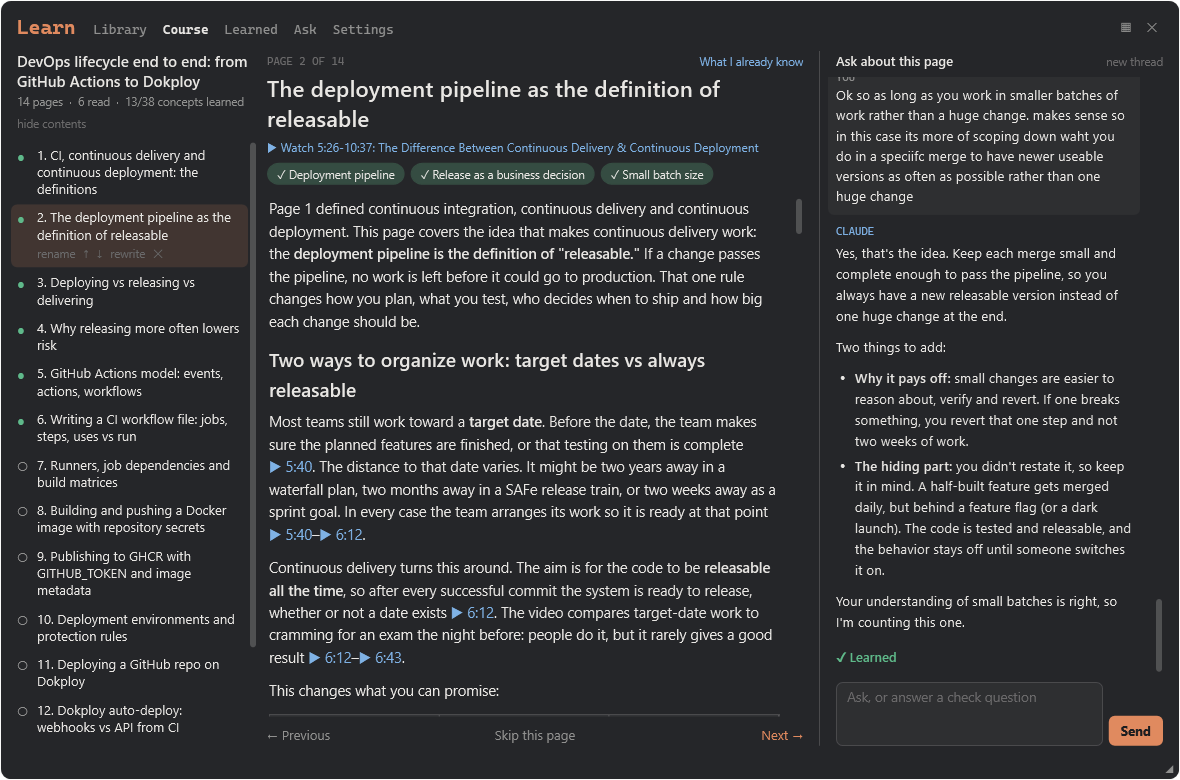
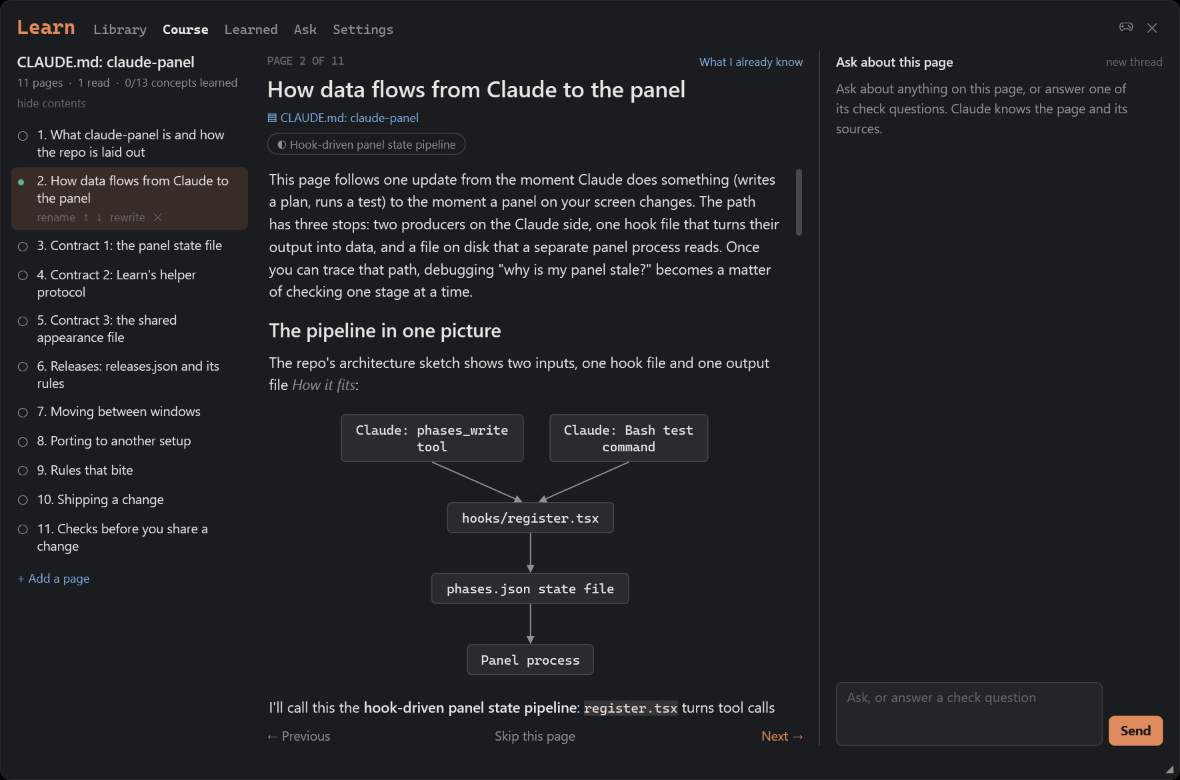
0.4.0: Learn's diagrams, Ask chats, and courses from documents and chats
Docs for the new helper commands, the diagram block and the doc and chat
sources (CLAUDE.md, PORTING.md, README), the releases entry, and fresh
Learn screenshots.

Claude-Session: https://claude.ai/code/session_018U5YekyU25cHqHPFQv33uL

diff --git a/CLAUDE.md b/CLAUDE.md
@@ -25,6 +25,9 @@ progress/
   widget/Learn.ps1 (+ LearnRender.ps1, LearnViews.ps1, LearnCore.cs)   the Learn window
   widget/{Sudoku,Game2048,TypeTest,ChessPuzzles}.ps1, ChessCore.cs, *.txt   the games and their data
   learn/*.mjs, learn/learn.sh     Learn's helper (Node 22, no dependencies): library, builds, chats, prompts
+                                  diagram.mjs (Mermaid subset -> laid-out diagram blocks), documents.mjs (PDF via pypdf,
+                                  .docx via its own zip reader, Markdown, HTML -> sections), chats.mjs (Claude Code chats
+                                  listed, found and shrunk to text, secrets masked)
   releases.json                   what each version brought: the Releases tab in every panel
   hooks/releases.ts, hooks/pages.ts   reading releases.json; the one TypeScript list of pages and windows
   tools/build-*.mjs               rebuild the chess puzzles / pieces from their public sources
@@ -102,8 +105,8 @@ Start it with `bash learn/learn.sh serve`, which finds Node 22 and `claude` even
 | pages | `page.get {courseId, n}` (also marks its concepts Seen), `page.rename {courseId, n, title}`, `page.move {courseId, n, delta}`, `page.remove {courseId, n}`, `page.skip {courseId, n, skip}`, `page.rewrite {courseId, n, note}`, `page.add {courseId, topic, after}`, `progress.set {courseId, n, scroll}` |
 | concepts | `concept.list`, `concept.learn {id, learned, courseId?, n?}`, `concept.add {text, category}`, `concept.update {id, name?, definition?, parent?}`, `concept.move {id, category}`, `concept.merge {keep, drop}`, `concept.remove {id}`, `concept.tidy`, `concept.prune` (concepts no course teaches) |
 | overlap | `overlap.get {courseId}`, `overlap.apply {courseId, skip}` |
-| chats | `chat.get {courseId, n \| advisor:true}`, `chat.send {…, text}` (answers `{key}`, then streams events), `chat.stop {key}`, `chat.clear {…}` |
-| builds | `build.start {topic \| link, category, mode: pick\|auto}`, `build.pick {jobId, picks}`, `build.resume {jobId}`, `build.cancel {jobId}`, `build.dismiss {jobId}`, `jobs.list` |
+| chats | `chat.get {courseId, n \| advisor:true, chatId}`, `chat.send {…, text}` (answers `{key}`, then streams events), `chat.stop {key}`, `chat.clear {…}`; Ask's chats: `advisor.list` → `[{id, title, createdAt, updatedAt, count}]`, `advisor.remove {chatId}` |
+| builds | `build.start {topic \| link \| file, name \| chat, focus; category, mode: pick\|auto}`, `build.pick {jobId, picks}`, `build.resume {jobId}`, `build.cancel {jobId}`, `build.dismiss {jobId}`, `jobs.list`, `claudeChats.list` → `[{id, title, project, cwd, at, size}]` |
 | tools | `deps.check`, `deps.install` (yt-dlp) |
 
 **Rules a front end must keep:**
@@ -111,8 +114,11 @@ Start it with `bash learn/learn.sh serve`, which finds Node 22 and `claude` even
 - A page's `n` is its permanent id. Its **order** is its position in `course.pages`; show "page X of Y" by position.
 - **Learned** is set only by the person's own action: a tick, or the *Mark learned* button. Never mark anything learned automatically.
 - A chat reply's `offers` (concept ids) become a *Mark learned* button, and its `builds` (`{topic, category}`) become *Build this* buttons.
+- **Ask's chats:** a window makes a new chat's id itself (`a` + letters and digits), so the streaming key `advisor:<id>` never changes mid-reply. A chat is saved, titled by its first question, when that question is sent. Before there were several, there was one `advisor/chat.json`; it becomes the first chat and is renamed `chat.json.moved`.
+- **Blocks:** a page's and a reply's blocks are `h p code ul ol quote hr table`, plus `diagram`. That is a ```mermaid block (`flowchart`/`graph` TD/LR/BT/RL, or `sequenceDiagram`) that `learn/diagram.mjs` laid out: `{w, h, font, line, small, smallLine, nodes:[{x, y, w, h, shape, lines}], edges:[{pts, dash, thick, head, tail, life, label?}], frames, source}`. It carries positions only; a front end draws it in its own colours, scaled by its text size over `font` and never wider than the column. One it can't read stays `code`, and a front end that doesn't know `diagram` skips it.
+- **Sources:** `youtube` and `web` come from research. `doc` is a document: the build keeps a copy, `courses/<id>/sources/<sid>.document.<ext>` (`page.source.file`). `chat` is a brief written from a Claude Code chat. Both have sections and are cited `[sec: Heading]` with no link. A web page's upload goes to `<config>/uploads/` (`POST /api/upload`), and `build.start` moves it in.
 
-The helper also works as a CLI (`learn.sh build start|list|run|pick|resume|cancel`, `settings`, `deps`, `library`, `status`, `transcript <url>`, `ping`).
+The helper also works as a CLI (`learn.sh build start|list|run|pick|resume|cancel`, `chats`, `extract <file>`, `settings`, `deps`, `library`, `status`, `transcript <url>`, `ping`). `/course <what>` in a chat runs `learn.sh build start --chat <session> --focus <what>` (`courseArgv` in `hooks/learn.ts`).
 
 **Every Claude call Learn makes** runs:
 
@@ -124,6 +130,8 @@ claude -p --safe-mode --restricted --strict-mcp-config --permission-mode dontAsk
 - Tools go in **both** `--tools` and `--allowedTools`, because `dontAsk` denies anything else.
 - `--bare` can't be used: it only accepts `ANTHROPIC_API_KEY`, not a subscription login.
 - `CLAUDE_PROGRESS_OFF=1` makes this plugin step aside inside those runs.
+- A course from a chat makes one run with `Read`, `Grep` and `Glob` only, in a folder holding just the chat's text (`jobs/<id>.chat/chat.txt`, removed afterwards). It also gets `--add-dir` for the chat's working folder, so it can read the code as it is now. Nothing ever writes to the chat it reads.
+- A PDF's text comes from pypdf, run with `python3 -I` straight from its wheel (`deps.mjs ensurePypdf`: PyPI's sha256 checked, refreshed after 30 days). Claude reads only pages with no usable text. Its `Read` tool takes a whole PDF of 10 pages or fewer without poppler, so pypdf cuts those pages out first.
 
 ## Contract 3: the appearance
 

diff --git a/README.md b/README.md
@@ -152,12 +152,15 @@ Learn and the games run on a small local server (`progress/web/server.mjs`). It 
 - **Colour scheme and see-through.** ◐ in the panel: click a scheme; drag the Panel, Learn and Games bars to make each window's background more or less see-through (the text stays solid; below about 85% it gets a soft edge so it reads over anything). *Custom colours →* opens Learn's Settings, where you can set your own background, accent and text colours. Every open window changes within a second.
 - **Releases.** Click the version in the panel's top row: each release, its date, who made it, and what's new.
 - **Learn.** Use the panel's Learn tab, then *Open Learn*.
-  - **Library:** type a topic or paste a YouTube, playlist or docs link. Choose *Let me pick* to tick the sources yourself, or *Just build it*. Builds run in the background: close the window and they carry on.
-  - **Course:** contents, the lesson, and a chat that knows the page. ▶ times jump to that moment in the video, and *(added)* marks what Claude added beyond the sources. Answer the check questions in the chat. Nothing becomes *Learned* unless you mark it.
+  - **Library:** a new course is built *From* one of three things. Builds run in the background: close the window and they carry on.
+    - **A topic or link:** type a topic, or paste a YouTube, playlist or docs link. Choose *Let me pick* to tick the sources yourself, or *Just build it*.
+    - **A document:** a PDF, Word (.docx), Markdown, text or HTML file, up to 64 MB. Choose it, or drop it on the Library. A PDF's text comes from pypdf (fetched once into `~/.cache/claude-learn/pypdf/`, needs `python3`). Scanned pages are read by Claude, up to 60 of them.
+    - **A Claude chat:** pick one of your Claude Code chats and say what the course should cover. Or type `/course <what>` in the chat itself. Learn reads the chat's saved record (in `~/.claude/projects/`, compactions and all, with anything that looks like a secret masked). One Claude run with read-only tools writes a brief from it, and the course is built from that brief.
+  - **Course:** contents, the lesson, and a chat that knows the page. Pages draw diagrams (flows, architectures, request sequences) where a picture helps, in your colour scheme. ▶ times jump to that moment in the video, and *(added)* marks what Claude added beyond the sources. Answer the check questions in the chat. Nothing becomes *Learned* unless you mark it.
   - **Editing a course:** rename, reorder, rewrite (with a note) or remove a page; *+ Add a page* on any topic.
   - **Before a new course:** it shows what you've already learned, what you've only read, and what's new, and offers to skip pages.
   - **Learned:** every concept, by category. Add, rename, edit, nest, merge, or remove (✕) concepts; *Tidy concepts* finds duplicates. Removing a course takes the concepts only it taught with it.
-  - **Ask:** "what should I learn next?" Add your work folders in Settings and it suggests topics from the stack you really use, each with a *Build this* button.
+  - **Ask:** "what should I learn next?" Add your work folders in Settings and it suggests topics from the stack you really use, each with a *Build this* button. Keep as many chats as you like. *+ New chat* starts one, the list on the left reopens any of them, and ✕ (clicked twice) deletes one.
   - **Settings:** the colour scheme (presets, your own colours, see-through), the library folder, which Claude model builds courses and which one chats, and text size.
   - **Cost:** Learn runs on **your own Claude subscription** through `claude -p`, so it counts toward the same limits as your work. Settings shows the latest reading.
 - **Games.** ▦ in the panel's header, or in any game's or Learn's header, to go straight to another. Each game is its own window. Sudoku, 2048 and Chess save the game in progress after every move; Typing keeps your theme (by default it follows the colour scheme) and best score.

diff --git a/docs/PORTING.md b/docs/PORTING.md
@@ -291,9 +291,14 @@ Rebuild the WPF window in `widget/Learn.ps1`, `LearnViews.ps1` and `LearnRender.
   - an always-visible ✕ (`concept.remove`).
 
 **Ask**
-- The Advisor chat (`advisor: true`) with four suggestion chips.
+- The Advisor's chats (`advisor: true, chatId`), listed with `advisor.list`; a new one's id made by the page (`a` + letters and digits). Four suggestion chips.
 - Its *Build this* buttons as above.
-- *New conversation* sends `chat.clear {advisor: true}`.
+- *+ New chat* shows an empty chat with a fresh id; it is saved with its first question. A delete (`advisor.remove {chatId}`) takes two clicks.
+
+**New course: what it is built from**
+- A topic or link (`build.start {topic | link}`), a document (`build.start {file, name}`: a path the helper can read, or from a browser `POST /api/upload` first), or a Claude chat (`claudeChats.list`, then `build.start {chat, focus}`).
+- A page's `source.kind` `doc` or `chat` has no link; a `doc`'s `source.file` is the copy in the library, to open where the front end can.
+- `diagram` blocks: draw the helper's boxes, text and lines in the scheme's colours (see CLAUDE.md, contract 2).
 
 **Settings** (`settings.get`, `settings.set {change}`)
 - The library folder. If it changes, drop everything cached and close the Course tab.
